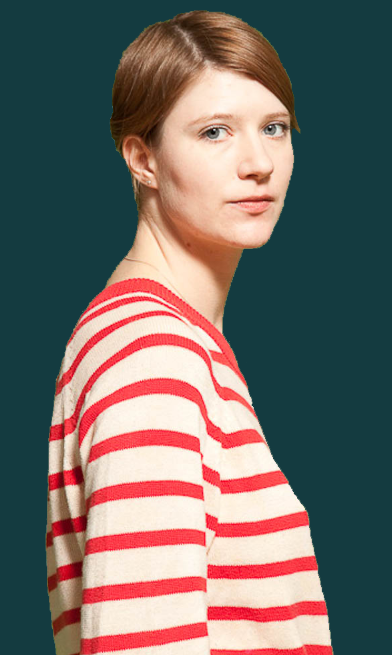
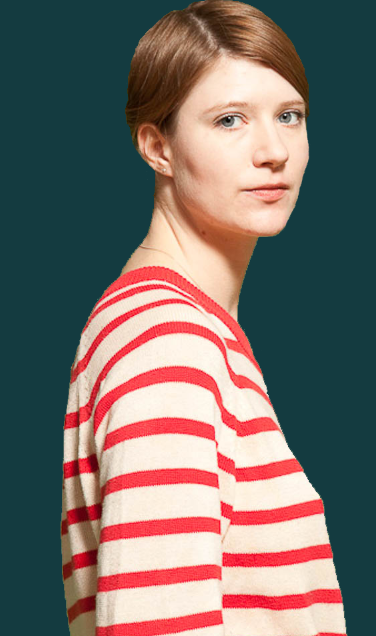
style bannière

diff --git a/css/siteDemo.css b/css/siteDemo.css
@@ -44,22 +44,22 @@ p, h1 {
 /*HEADER*/
 
 .header {
-  padding: 140px 0 60px 0;
+  padding: 140px 0 0 0;
   background-color: #143B40;
   background-size: cover;
   width: 100%;
-  border-bottom: 2px solid #c9c9c9;
+/*  border-bottom: 2px solid #c9c9c9;*/
 }
 
 .header h1 {
-  color: #F54051;
+  color: #B70103;
   font-family: 'Pacifico', cursive;
   font-size: 7.5em;
 }
 
 .header p {
-  color: #F7EBDF;
-  font-size: 1.3em;
+  color: #F7EBDF; /*creme*/
+  font-size: 1.8em;
 }
 
 .header .btn {
@@ -71,7 +71,7 @@ p, h1 {
 .studies {
   padding: 50px 0 100px;
   text-align: center;
-  background-color: #F7EBDF;
+  background-color: #F7EBDF; /*vert*/
 }
 
 .studies h1 {
@@ -103,16 +103,16 @@ p, h1 {
 /*SKILLS*/
 
 .skills {
-  background-color: #143B40;
+  background-color: #143B40; /*vert*/
   text-align: center;
-  color: #F7EBDF;
+  color: #F7EBDF; /*creme*/
   padding: 90px 0 90px;
 }
 
 .skills h1 {
   font-size: 2em;
   padding-bottom: 25px;
-  color: #F54051;
+  color: #F7EBDF;
 }
 
 .skills img {
@@ -139,7 +139,7 @@ p, h1 {
 .press h1 {
   font-size: 1.8em;
   padding-bottom: 25px;
-  color: #F54051;
+  color: #242424;
 }
 
 .press .certifs-logo li img {
@@ -186,10 +186,10 @@ p, h1 {
 /*SCREENSHOTS*/
 
 .screenshots {
-  background-color: #143B40;
+  background-color: #143B40; /*vert*/
   padding: 90px 0 90px;
   text-align: center;
-  color: #F7EBDF;
+  color: #F7EBDF; /*creme*/
 }
 
 .screenshots img {
@@ -205,7 +205,7 @@ p, h1 {
 .contact {
   padding: 100px 0 100px;
   text-align: center;
-  background-color: #F7EBDF;
+  background-color: #F7EBDF; /*vert*/
 }
 
 .contact h1 {
@@ -214,7 +214,7 @@ p, h1 {
 }
 
 .contact .fa {
-  color: #143B40;
+  color: #143B40; /*vert*/
   padding: 20px 10px 40px;
 }
 
@@ -225,13 +225,13 @@ p, h1 {
 /*FOOTER*/
 
 .footer {
-  background-color: #143B40;
-  color: #F7EBDF;
+  background-color: #143B40; /*antracite*/
+  color: #F7EBDF; /*gris clair*/
   padding: 30px 0;
 }
 
 .footer .fa {
-  color: #F54051;
+  color: #B70103;
 }
 
 .footer h1 {

diff --git a/siteDemo.html b/siteDemo.html
@@ -99,9 +99,9 @@
 
         <div class="col-lg-6 col-md-6 col-sm-12 col-xs-12 wow fadeInLeft">
           <h1 class="wow fadeIn" data-wow-delay="0.4s">Welcome</h1>
-          <p class="wow fadeIn" data-wow-delay="0.8s">Hey, I'm Katalina Nadasi</p>
-          <p class="wow fadeIn" data-wow-delay="0.8s">I'm a Front-End Developer and integrator based in Paris</p>
-          <p class="wow fadeIn" data-wow-delay="0.9s">Bootstrap is my best friend and together we build very nice responsive websites</p>
+          <p class="wow fadeIn" data-wow-delay="0.8s">Bonjour. Hello. I'm Katalina Nadasi</p>
+          <p class="wow fadeIn" data-wow-delay="0.8s">I'm a Front-End developer and integrator based in Paris</p>
+          <p class="wow fadeIn" data-wow-delay="0.9s">Bootstrap is my best friend and together we build very nice responsive websites</p></br></br>
 
           <ul class="list-inline">
           <li><a href="mailto:katalina.nadasi@gmail.com" target="blank" class="btn btn-trans btn-lg text-center" role="button">LET'S WORK TOGETHER</a></li>
@@ -110,8 +110,6 @@
 
         <div class="col-lg-6 col-md-6 col-sm-12 col-xs-12" align="center">
           <img class="img-responsive" src="pics/bannerIMG.png">
-
-
         </div>
 
 
@@ -142,7 +140,7 @@
 
       <div class="col-lg-6 col-md-6 wow fadeIn" data-wow-delay="0.5s">
         <img src="img/escDijon.png" class="img-circle" id="img">
-        <blockquote><p><a href="http://www.meilleurs-masters.com/master-management-des-entreprises-culturelles.html"><em>N°3 Master Management des Entreprises Culturelles - Classement SMBG</em></p></a></blockquote><footer>Master Management des Entreprises Créatives</footer>
+        <blockquote><p><a href="http://www.meilleurs-masters.com/master-management-des-entreprises-culturelles.html"><em>N°3 Master Management des Entreprises Culturelles -</br>Classement SMBG</em></p></a></blockquote><footer>Master Management des Entreprises Créatives</footer>
       </div>
 
       </div>

diff --git a/css/bootstrap.min.css b/css/bootstrap.min.css
@@ -6,9 +6,9 @@
 /*# sourceMappingURL=bootstrap.min.css.map */
 
 .btn-trans { 
-  color: #F7EBDF; 
-  background-color: #F54051; 
-  border-color: #F54051; 
+  color: #F7EBDF; /*creme*/
+  background-color: #242424; /*anthracite*/
+  border-color: #242424; 
 } 
  
 .btn-trans:hover, 
@@ -16,9 +16,9 @@
 .btn-trans:active, 
 .btn-trans.active, 
 .open .dropdown-toggle.btn-trans { 
-  color: #F54051 !important; 
+  color: #F7EBDF !important; 
   background-color: transparent; 
-  border-color: #F54051; 
+  border-color: #242424; 
 } 
  
 .btn-trans:active, 
